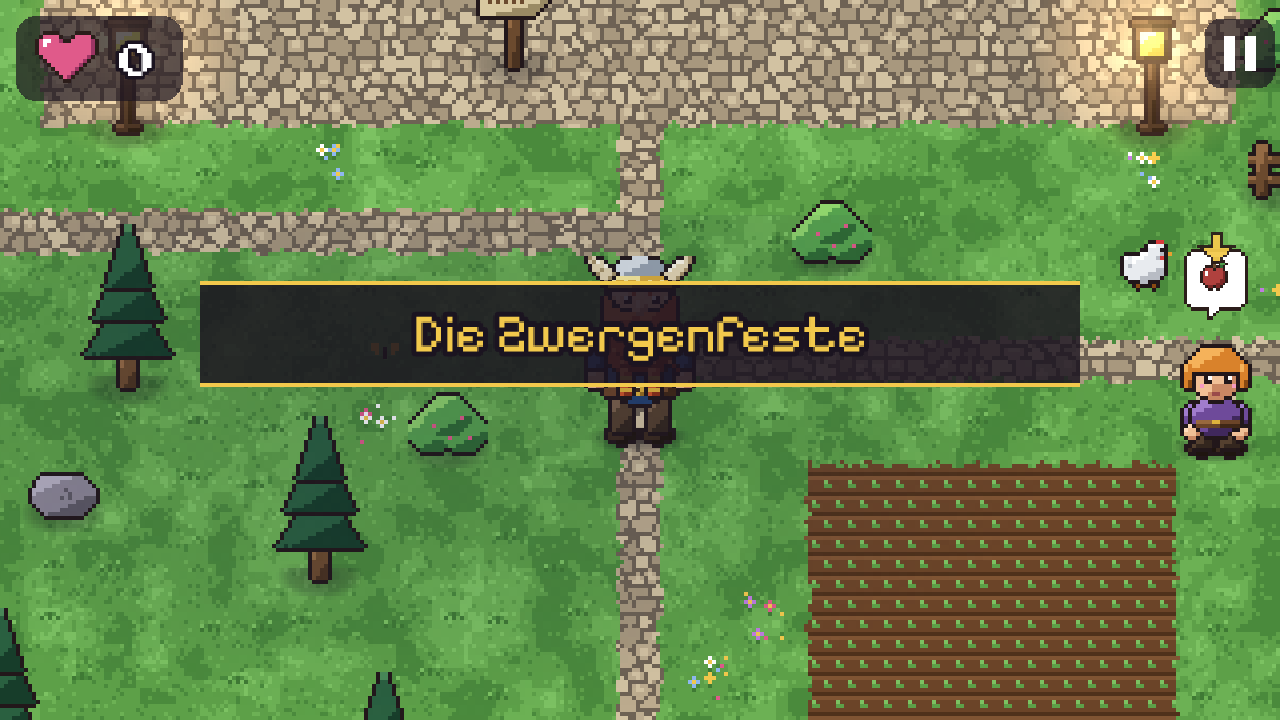
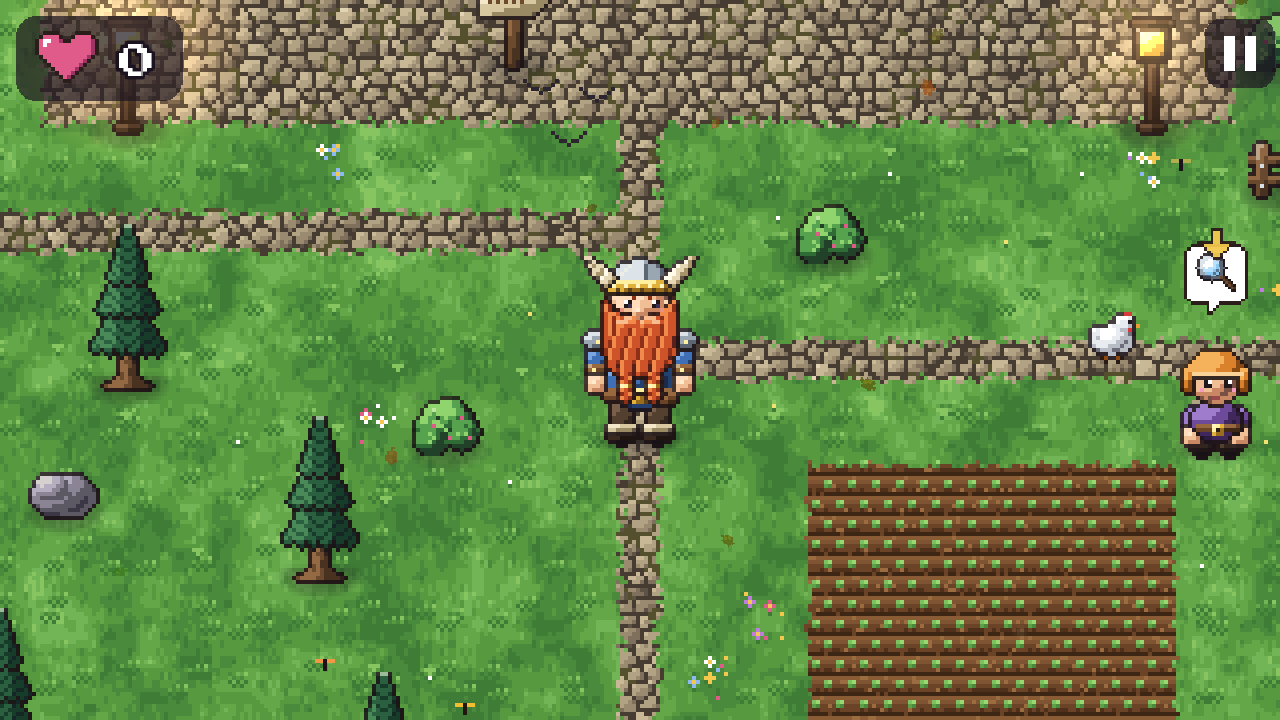
README-Bilder im 90er-Look und Bilder-Verlauf «So ist das Spiel gewachsen»
- Alle README-Bilder neu aufgenommen (gleiche Namen, neuer Look)
- Alte Bilder vom 27.09. nach docs/verlauf/2026-09-27-alle-kapitel/ verschoben
- Prototyp (26.09.) und erster SNES-Look nachgebaut und fotografiert
  (docs/verlauf/2026-09-26-*)
- docs/VERLAUF.md und Wiki-Seite «Verlauf»: Zeitleiste mit Bildern und
  Ausblick; README-Abschnitt mit Vergleich Prototyp / 27.09. / heute
- Galerie: ?nur=gruppenbild erzeugt das Figuren-Gruppenbild fürs README
- CLAUDE.md: Regel, wie der Bilder-Verlauf weitergeführt wird

Claude-Session: https://claude.ai/code/session_01S9aviodgtQDEDuaWTm22WH

diff --git a/galerie.html b/galerie.html
@@ -47,13 +47,33 @@
       gruppe('Gebäude und Deko', objekte);
       gruppe('Kleinteile', kleinteile);
     }
+    // ?nur=gruppenbild: das Gruppenbild für das README (1200 x 400), als Bild mit Rechtsklick speicherbar
+    if (nur === 'gruppenbild') {
+      document.body.style.margin = '0';
+      inhalt.previousElementSibling.remove(); inhalt.previousElementSibling.remove();
+      const c = document.createElement('canvas'); c.width = 1200; c.height = 400; c.id = 'gruppenbild';
+      const g = c.getContext('2d'); g.imageSmoothingEnabled = false;
+      const himmel = g.createLinearGradient(0, 0, 0, 260); himmel.addColorStop(0, '#5aa0e0'); himmel.addColorStop(1, '#b8dcf4');
+      g.fillStyle = himmel; g.fillRect(0, 0, 1200, 260);
+      g.fillStyle = '#4a8a3c'; g.fillRect(0, 260, 1200, 140);
+      g.fillStyle = '#5da048'; g.fillRect(0, 260, 1200, 8);
+      const setze = (e, x, fussY, skala) => g.drawImage(alsCanvas(e, skala), Math.round(x - (e.b * skala) / 2), Math.round(fussY - e.h * skala));
+      const held = baueHeld();
+      setze(held.held_unten_jubeln, 110, 362, 5);
+      setze(held.held_seite_steh0, 270, 362, 5);
+      const namen = ['mama', 'tilda', 'bruno', 'schmied', 'koenigin', 'bibliothekar', 'wache', 'nella', 'bote', 'oma'];
+      namen.forEach((n, i) => setze(baueFigur(FIGUREN_AUSSEHEN[n])[i % 3 ? 'steh0' : 'jubeln'], 382 + i * 58, 358, 3));
+      const drache = baueDrache('froh');
+      setze(drache.jubeln, 1072, 366, 3.4);
+      inhalt.append(c);
+    }
     if (!nur || nur === 'drache') {
       gruppe('Glutherz – ernst', baueDrache('ernst'));
       gruppe('Glutherz – froh', baueDrache('froh'));
       gruppe('Glutherz – Flug', { oben: baueFlugDrache(0), mitte: baueFlugDrache(1), unten: baueFlugDrache(2), augen: baueAugen() });
       gruppe('Pony', baueTier('pony'));
     }
-    if (nur !== 'welt' && nur !== 'drache') {
+    if (!['welt', 'drache', 'gruppenbild'].includes(nur)) {
       const held = baueHeld();
       for (const richtung of ['unten', 'oben', 'seite']) {
         gruppe(`Grosser Zwerg – ${richtung}`, Object.fromEntries(Object.entries(held).filter(([k]) => k.startsWith(`held_${richtung}`))));

diff --git a/docs/wiki/Verlauf.md b/docs/wiki/Verlauf.md
@@ -1,0 +1,86 @@
+# 🕰 So ist das Spiel gewachsen
+
+<!-- Wird aus docs/VERLAUF.md erzeugt – dort bearbeiten. -->
+
+Vom ersten spielbaren Dorf bis heute: Hier sieht man, wie «Der Grosse Zwerg» Schritt für Schritt entstanden ist.
+Alle Bilder sind echte Bildschirmfotos aus dem jeweiligen Stand. Die alten Bilder liegen in
+[`docs/verlauf/`](https://github.com/GSB-Deleven/Game-Der_Grosse_Zwerg/tree/main/docs/verlauf), die aktuellen in [`docs/bilder/`](https://github.com/GSB-Deleven/Game-Der_Grosse_Zwerg/tree/main/docs/bilder).
+
+---
+
+## 1 · Der erste Prototyp — 26.09.2026
+
+Davids Gute-Nacht-Geschichte wird zum Spiel: Kapitel 1 «Die Zwergenfeste» ist spielbar.
+Einfache Klötzchen-Grafik, glatte Flächen, Wasser in einem Blau, eine normale Schrift.
+Aber schon dabei: der Grosse Zwerg mit Hörnerhelm und rotem Bart, der gelbe Pfeil und das Helfen-Herz.
+
+| Titelbild | Im Dorf |
+|---|---|
+| ![Prototyp Titel](https://raw.githubusercontent.com/GSB-Deleven/Game-Der_Grosse_Zwerg/main/docs/verlauf/2026-09-26-prototyp/titel.png) | ![Prototyp Dorf](https://raw.githubusercontent.com/GSB-Deleven/Game-Der_Grosse_Zwerg/main/docs/verlauf/2026-09-26-prototyp/dorf.png) |
+
+---
+
+## 2 · Der SNES-Look — 26.09.2026, am Abend
+
+Alles neu gezeichnet, wie auf dem Super Nintendo: Figuren aus Teilen mit Umriss und Schattierung,
+Boden mit weichen Übergängen und Kopfsteinpflaster, Laternen mit Lichtschein, Hühner, Schmetterlinge.
+Dazu drei Spielstände und grosse Splash-Bilder für schöne Momente.
+
+| Titelbild | Im Dorf |
+|---|---|
+| ![SNES-Look Titel](https://raw.githubusercontent.com/GSB-Deleven/Game-Der_Grosse_Zwerg/main/docs/verlauf/2026-09-26-snes-look/titel.png) | ![SNES-Look Dorf](https://raw.githubusercontent.com/GSB-Deleven/Game-Der_Grosse_Zwerg/main/docs/verlauf/2026-09-26-snes-look/dorf.png) |
+
+---
+
+## 3 · Die ganze Geschichte — 27.09.2026
+
+Alle fünf Kapitel sind da: die Königin, die grosse Reise über See, Tal und durch den dunklen Wald,
+Glutherz in der Drachenhöhle, der Flug zum Schloss und das grosse Fest. Pixel-Schrift, Menü mit
+Einstellungen und eine Steuerung für das Handy (hochkant mit einer Hand oder quer).
+
+| Im Dorf | Der dunkle Wald |
+|---|---|
+| ![Dorf 27.09.](https://raw.githubusercontent.com/GSB-Deleven/Game-Der_Grosse_Zwerg/main/docs/verlauf/2026-09-27-alle-kapitel/dorf.png) | ![Wald 27.09.](https://raw.githubusercontent.com/GSB-Deleven/Game-Der_Grosse_Zwerg/main/docs/verlauf/2026-09-27-alle-kapitel/wald.png) |
+| **Glutherz** | **Das Fest** |
+| ![Höhle 27.09.](https://raw.githubusercontent.com/GSB-Deleven/Game-Der_Grosse_Zwerg/main/docs/verlauf/2026-09-27-alle-kapitel/hoehle.png) | ![Marktplatz 27.09.](https://raw.githubusercontent.com/GSB-Deleven/Game-Der_Grosse_Zwerg/main/docs/verlauf/2026-09-27-alle-kapitel/marktplatz.png) |
+
+![Figuren 27.09.](https://raw.githubusercontent.com/GSB-Deleven/Game-Der_Grosse_Zwerg/main/docs/verlauf/2026-09-27-alle-kapitel/figuren.png)
+
+**29.09.2026 · Kapitel 6 «Die Ehrengarde»:** Das Spiel hört nicht mehr auf. Der Grosse Zwerg wohnt mit
+Glutherz in einem eigenen Zuhause, holt Aufträge am Missionsbrett und zieht sich an der Kleiderkiste um.
+Neue Aufgaben: Hühner einfangen, Versteckis, Blumen nach Farben sortieren, Wegweiser mit Witzen.
+
+---
+
+## 4 · Der 90er-Look — 01.10.2026 (heute)
+
+Mehr Details, wie bei späten SNES- und Game-Boy-Advance-Spielen: 5 statt 3 Farbtöne pro Farbe,
+farbige Umrisse, Bärte mit Strähnen, Helme mit Glanz, Bäume aus vielen Blätter-Büscheln, Gras mit Klee,
+Pflastersteine mit Licht und Schatten, tieferes Wasser, Dachziegel und Mauersteine, schwebende Leuchtsporen im Wald.
+Alles weiterhin im Code gemalt.
+
+| Im Dorf | Der dunkle Wald |
+|---|---|
+| ![Dorf 01.10.](https://raw.githubusercontent.com/GSB-Deleven/Game-Der_Grosse_Zwerg/main/docs/bilder/dorf.png) | ![Wald 01.10.](https://raw.githubusercontent.com/GSB-Deleven/Game-Der_Grosse_Zwerg/main/docs/bilder/wald.png) |
+| **Am See** | **Das Fest** |
+| ![See 01.10.](https://raw.githubusercontent.com/GSB-Deleven/Game-Der_Grosse_Zwerg/main/docs/bilder/see.png) | ![Marktplatz 01.10.](https://raw.githubusercontent.com/GSB-Deleven/Game-Der_Grosse_Zwerg/main/docs/bilder/marktplatz.png) |
+
+![Figuren 01.10.](https://raw.githubusercontent.com/GSB-Deleven/Game-Der_Grosse_Zwerg/main/docs/bilder/figuren.png)
+
+---
+
+## 🔭 Wohin es geht
+
+- **Grafik:** Glutherz und das Pony im neuen Look, Wasserlilien und Schilf am See, weiche Schatten von
+  Bäumen und Häusern (siehe [Grafik-Roadmap](https://github.com/GSB-Deleven/Game-Der_Grosse_Zwerg/blob/main/docs/GRAFIK-ROADMAP.md)).
+- **Neue Missionen** ([Issue #20](https://github.com/GSB-Deleven/Game-Der_Grosse_Zwerg/issues/20)):
+  Mühle nach dem Sturm reparieren, ein Troll mit Zahnweh, Laternen gegen den Nebel im Wald,
+  ein Geburtstagskuchen für die Königin, das Winterfest.
+- **Zuhause:** das Steinhaus als Belohnung, Sattel und Halstuch für Glutherz.
+- **Stimmen:** echte Stimmen statt Plappern ([Issue #11](https://github.com/GSB-Deleven/Game-Der_Grosse_Zwerg/issues/11)).
+
+---
+
+<sub>So wird der Verlauf weitergeführt: Wenn sich der Look sichtbar ändert, wandern die alten README-Bilder aus
+`docs/bilder/` nach `docs/verlauf/<datum>-<name>/`, neue Bilder kommen nach `docs/bilder/`, und hier kommt eine
+neue Stufe dazu. Das Gruppenbild entsteht mit `galerie.html?nur=gruppenbild`.</sub>

diff --git a/docs/VERLAUF.md b/docs/VERLAUF.md
@@ -1,0 +1,84 @@
+# 🕰 So ist das Spiel gewachsen
+
+Vom ersten spielbaren Dorf bis heute: Hier sieht man, wie «Der Grosse Zwerg» Schritt für Schritt entstanden ist.
+Alle Bilder sind echte Bildschirmfotos aus dem jeweiligen Stand. Die alten Bilder liegen in
+[`docs/verlauf/`](verlauf/), die aktuellen in [`docs/bilder/`](bilder/).
+
+---
+
+## 1 · Der erste Prototyp — 26.09.2026
+
+Davids Gute-Nacht-Geschichte wird zum Spiel: Kapitel 1 «Die Zwergenfeste» ist spielbar.
+Einfache Klötzchen-Grafik, glatte Flächen, Wasser in einem Blau, eine normale Schrift.
+Aber schon dabei: der Grosse Zwerg mit Hörnerhelm und rotem Bart, der gelbe Pfeil und das Helfen-Herz.
+
+| Titelbild | Im Dorf |
+|---|---|
+| ![Prototyp Titel](verlauf/2026-09-26-prototyp/titel.png) | ![Prototyp Dorf](verlauf/2026-09-26-prototyp/dorf.png) |
+
+---
+
+## 2 · Der SNES-Look — 26.09.2026, am Abend
+
+Alles neu gezeichnet, wie auf dem Super Nintendo: Figuren aus Teilen mit Umriss und Schattierung,
+Boden mit weichen Übergängen und Kopfsteinpflaster, Laternen mit Lichtschein, Hühner, Schmetterlinge.
+Dazu drei Spielstände und grosse Splash-Bilder für schöne Momente.
+
+| Titelbild | Im Dorf |
+|---|---|
+| ![SNES-Look Titel](verlauf/2026-09-26-snes-look/titel.png) | ![SNES-Look Dorf](verlauf/2026-09-26-snes-look/dorf.png) |
+
+---
+
+## 3 · Die ganze Geschichte — 27.09.2026
+
+Alle fünf Kapitel sind da: die Königin, die grosse Reise über See, Tal und durch den dunklen Wald,
+Glutherz in der Drachenhöhle, der Flug zum Schloss und das grosse Fest. Pixel-Schrift, Menü mit
+Einstellungen und eine Steuerung für das Handy (hochkant mit einer Hand oder quer).
+
+| Im Dorf | Der dunkle Wald |
+|---|---|
+| ![Dorf 27.09.](verlauf/2026-09-27-alle-kapitel/dorf.png) | ![Wald 27.09.](verlauf/2026-09-27-alle-kapitel/wald.png) |
+| **Glutherz** | **Das Fest** |
+| ![Höhle 27.09.](verlauf/2026-09-27-alle-kapitel/hoehle.png) | ![Marktplatz 27.09.](verlauf/2026-09-27-alle-kapitel/marktplatz.png) |
+
+![Figuren 27.09.](verlauf/2026-09-27-alle-kapitel/figuren.png)
+
+**29.09.2026 · Kapitel 6 «Die Ehrengarde»:** Das Spiel hört nicht mehr auf. Der Grosse Zwerg wohnt mit
+Glutherz in einem eigenen Zuhause, holt Aufträge am Missionsbrett und zieht sich an der Kleiderkiste um.
+Neue Aufgaben: Hühner einfangen, Versteckis, Blumen nach Farben sortieren, Wegweiser mit Witzen.
+
+---
+
+## 4 · Der 90er-Look — 01.10.2026 (heute)
+
+Mehr Details, wie bei späten SNES- und Game-Boy-Advance-Spielen: 5 statt 3 Farbtöne pro Farbe,
+farbige Umrisse, Bärte mit Strähnen, Helme mit Glanz, Bäume aus vielen Blätter-Büscheln, Gras mit Klee,
+Pflastersteine mit Licht und Schatten, tieferes Wasser, Dachziegel und Mauersteine, schwebende Leuchtsporen im Wald.
+Alles weiterhin im Code gemalt.
+
+| Im Dorf | Der dunkle Wald |
+|---|---|
+| ![Dorf 01.10.](bilder/dorf.png) | ![Wald 01.10.](bilder/wald.png) |
+| **Am See** | **Das Fest** |
+| ![See 01.10.](bilder/see.png) | ![Marktplatz 01.10.](bilder/marktplatz.png) |
+
+![Figuren 01.10.](bilder/figuren.png)
+
+---
+
+## 🔭 Wohin es geht
+
+- **Grafik:** Glutherz und das Pony im neuen Look, Wasserlilien und Schilf am See, weiche Schatten von
+  Bäumen und Häusern (siehe [Grafik-Roadmap](GRAFIK-ROADMAP.md)).
+- **Neue Missionen** ([Issue #20](https://github.com/GSB-Deleven/Game-Der_Grosse_Zwerg/issues/20)):
+  Mühle nach dem Sturm reparieren, ein Troll mit Zahnweh, Laternen gegen den Nebel im Wald,
+  ein Geburtstagskuchen für die Königin, das Winterfest.
+- **Zuhause:** das Steinhaus als Belohnung, Sattel und Halstuch für Glutherz.
+- **Stimmen:** echte Stimmen statt Plappern ([Issue #11](https://github.com/GSB-Deleven/Game-Der_Grosse_Zwerg/issues/11)).
+
+---
+
+<sub>So wird der Verlauf weitergeführt: Wenn sich der Look sichtbar ändert, wandern die alten README-Bilder aus
+`docs/bilder/` nach `docs/verlauf/<datum>-<name>/`, neue Bilder kommen nach `docs/bilder/`, und hier kommt eine
+neue Stufe dazu. Das Gruppenbild entsteht mit `galerie.html?nur=gruppenbild`.</sub>

diff --git a/CLAUDE.md b/CLAUDE.md
@@ -18,6 +18,9 @@ Online: https://gsb-deleven.github.io/Game-Der_Grosse_Zwerg/ · Artefakt: https:
 - Nach Code-Änderungen: `npm run pruefen` (Karten), `npm run build`, Testlauf (unten), dann Artefakt:
   `npm run build:artefakt` und `dist-artefakt/spiel.html` auf die Artefakt-URL oben neu veröffentlichen.
 - Doku mitpflegen: README.md, `docs/NEUES-LEVEL.md` (Level-/Missions-Anleitung), `docs/wiki/*.md`.
+- Bilder-Verlauf: Bei sichtbaren Grafik-Änderungen die README-Bilder aus `docs/bilder/` nach
+  `docs/verlauf/<datum>-<name>/` verschieben (nie löschen), neue Bilder machen (gleiche Namen; Gruppenbild via
+  `galerie.html?nur=gruppenbild`), Stufe in `docs/VERLAUF.md` ergänzen und `docs/wiki/Verlauf.md` angleichen.
 - `@claude` in Issues läuft über `.github/workflows/claude.yml` (Secret CLAUDE_CODE_OAUTH_TOKEN; Details im Wiki
   «Mitarbeit-und-Planung»). Es gibt keine geplanten Routinen mehr (gelöscht, um Tokens zu sparen).
 

diff --git a/README.md b/README.md
@@ -167,6 +167,21 @@ Die Figuren setzt ein **Baukasten** aus Teilen zusammen (Stiefel, Rumpf, Bart, H
 
 ---
 
+## 🕰 So ist das Spiel gewachsen
+
+<table>
+<tr>
+<td width="33%" align="center"><b>26.09. · Prototyp</b><br><img src="docs/verlauf/2026-09-26-prototyp/dorf.png" alt="Prototyp"></td>
+<td width="33%" align="center"><b>27.09. · Alle Kapitel</b><br><img src="docs/verlauf/2026-09-27-alle-kapitel/dorf.png" alt="Alle Kapitel"></td>
+<td width="33%" align="center"><b>01.10. · 90er-Look</b><br><img src="docs/bilder/dorf.png" alt="90er-Look"></td>
+</tr>
+</table>
+
+Vom Klötzchen-Dorf zum detaillierten Pixel-Look: alle Stufen mit Bildern und was als Nächstes kommt
+stehen im **[Verlauf](docs/VERLAUF.md)**.
+
+---
+
 ## 🛠 Selbst etwas ändern
 
 | Was | Wo |

diff --git a/docs/wiki/_Sidebar.md b/docs/wiki/_Sidebar.md
@@ -4,6 +4,7 @@
 - [[Steuerung]]
 - [[Geschichte und Kapitel]]
 - [[Figuren]]
+- [[Verlauf]]
 - [[Neues Level bauen]]
 - [[Technik]]
 - [[Entwicklung und Tests]]
